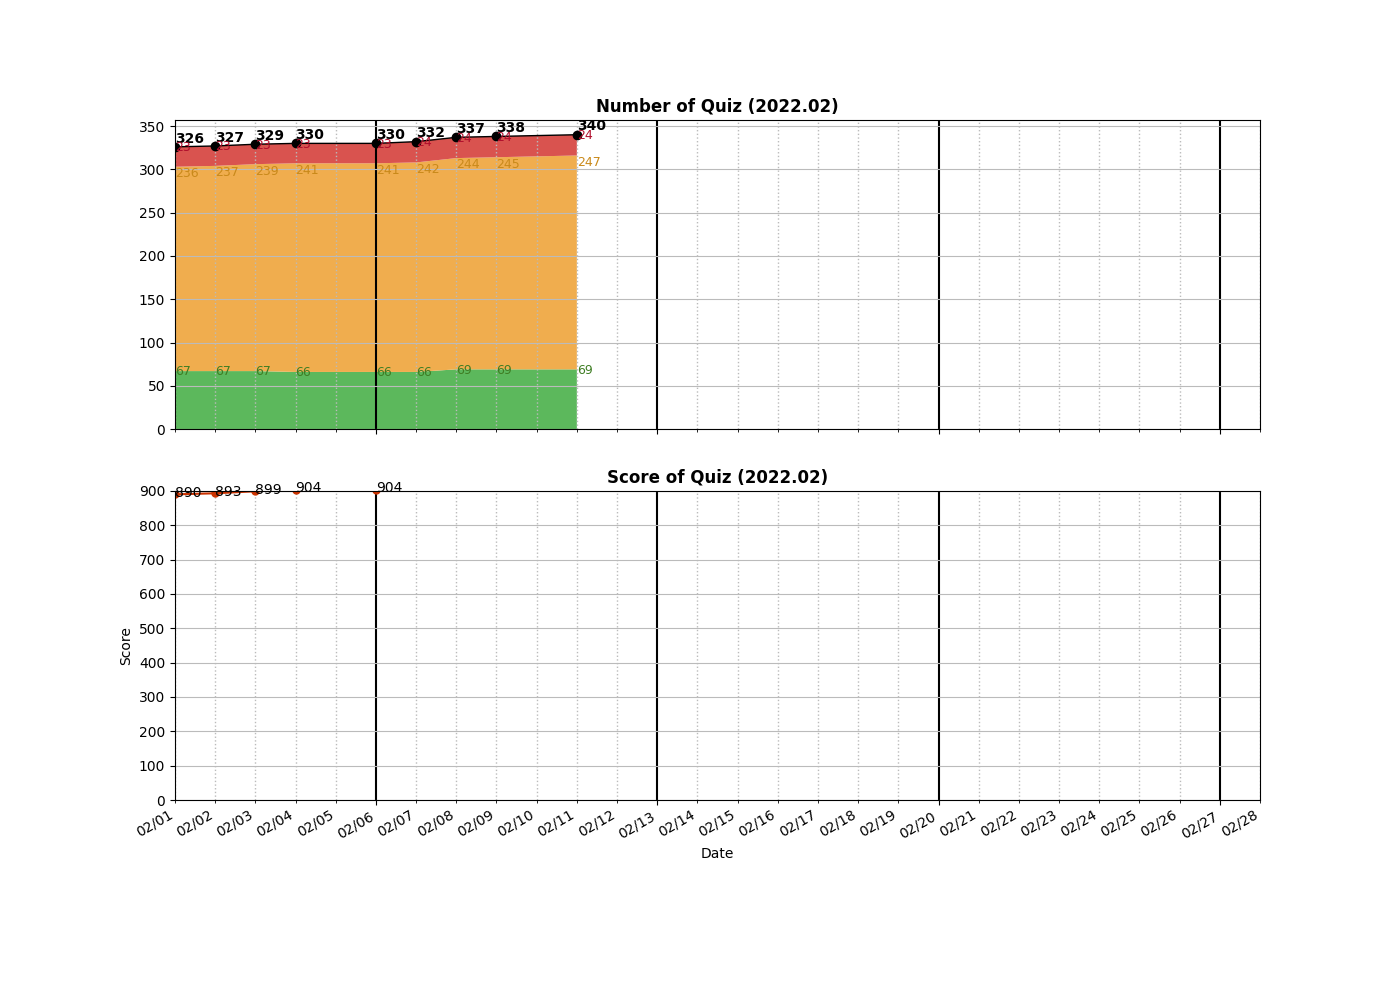
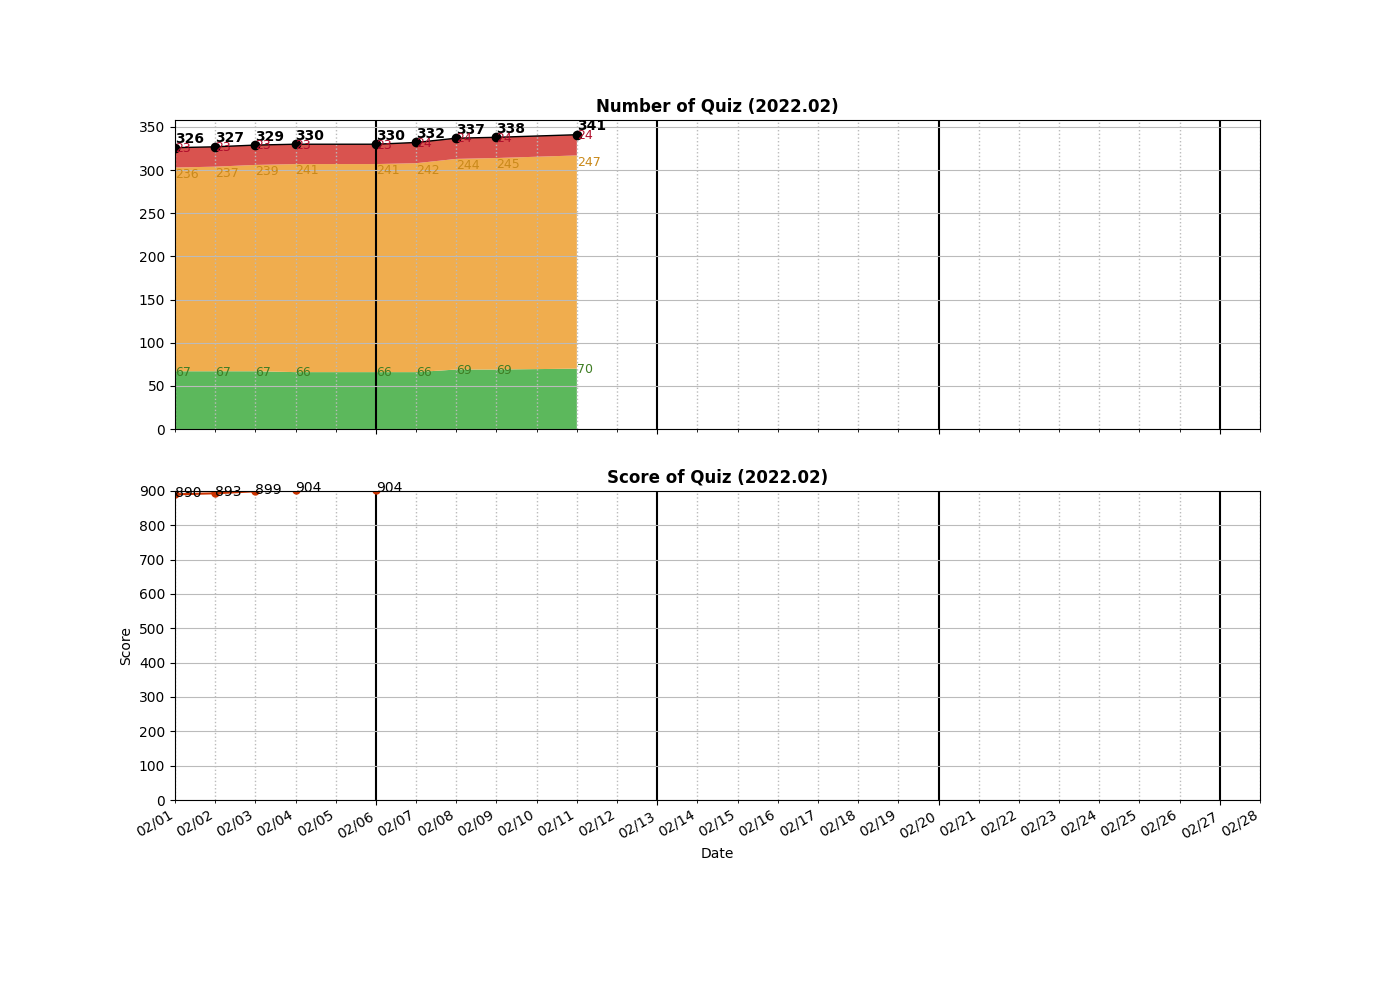
Added __0392__Is Subsequence.py

Changed region(s): [[0.0921, 0.124, 0.3993, 0.186]]

diff --git a/algo/String/__0392__Is Subsequence.py b/algo/String/__0392__Is Subsequence.py
@@ -1,0 +1,38 @@
+class Solution:
+    
+    
+    #O(S+T): 5%
+    def isSubsequence(self, s: str, t: str) -> bool:
+        print("Code2")
+        if len(s) == 0:
+            return True
+        if len(t) == 0:
+            return False
+        if s[0] == t[0]:
+            return self.isSubsequence(s[1:], t[1:])
+        else:
+            return self.isSubsequence(s, t[1:])
+    
+    # Incorrect
+    def isSubsequence1(self, s: str, t: str) -> bool:
+        print("Code1")
+        if len(s) == 0:
+            return True
+        if len(t) == 0:
+            return False
+        
+        ti = 0
+        for si, sch in enumerate(s):
+            while ti < len(t):
+                if sch == t[ti]:
+                    ti += 1
+                    if ti == len(t):
+                        if si == len(s):
+                            return True
+                        else:
+                            return False
+                    break
+                else:
+                    ti += 1
+        return False
+                

diff --git a/README.md b/README.md
@@ -260,6 +260,7 @@ algo
 │   ├── __0014__Longest Common Prefix.py
 │   ├── __0151__Reverse Words in a String.py
 │   ├── __0161__One Edit Distance.py
+│   ├── __0392__Is Subsequence.py
 │   ├── __0423__Reconstruct Original Digits from English.py
 │   ├── __0459__Repeated Substring Pattern.py
 │   ├── __0767__Reorganize String.py
@@ -382,7 +383,7 @@ algo
 └── _Template
     └── BinarySearch.py
 
-28 directories, 353 files
+28 directories, 354 files
 
 =====================================
 ============= Local Repo ============
@@ -568,6 +569,7 @@ __0378__Kth Smallest Element in a Sorted Matrix.py
 __0380__Insert Delete GetRandom O(1).py
 __0384__Shuffle an Array.py
 __0387__First Unique Character in a String.py
+__0392__Is Subsequence.py
 __0394__Decode String.py
 __0395__Longest Substring with At Least K Repeating Characters.py
 __0399__Evaluate Division.py
@@ -728,7 +730,7 @@ __2154__Keep Multiplying Found Values by Two.py
 __2155__All Divisions With the Highest Score of a Binary Array.py
 __2156__Find Substring With Given Hash Value.py
 =====================================
-Num of Python Practice:  340
+Num of Python Practice:  341
 
 
 =====================================
@@ -915,6 +917,7 @@ Num of Python Practice:  340
  0380 Insert Delete GetRandom O(1)
  0384 Shuffle an Array
  0387 First Unique Character in a String
+ 0392 Is Subsequence
  0394 Decode String
  0395 Longest Substring with At Least K Repeating Characters
  0399 Evaluate Division
@@ -1075,11 +1078,11 @@ Num of Python Practice:  340
  2155 All Divisions With the Highest Score of a Binary Array
  2156 Find Substring With Given Hash Value
 =====================================
-Solved / Total (Easy)  :   69 /  545
+Solved / Total (Easy)  :   70 /  545
 Solved / Total (Medium):  247 / 1157
 Solved / Total (Hard)  :   24 /  466
-Solved / Total (All)   :  340 / 2168
-Total Score            :  930
+Solved / Total (All)   :  341 / 2168
+Total Score            :  931
 =====================================
 
 ```
